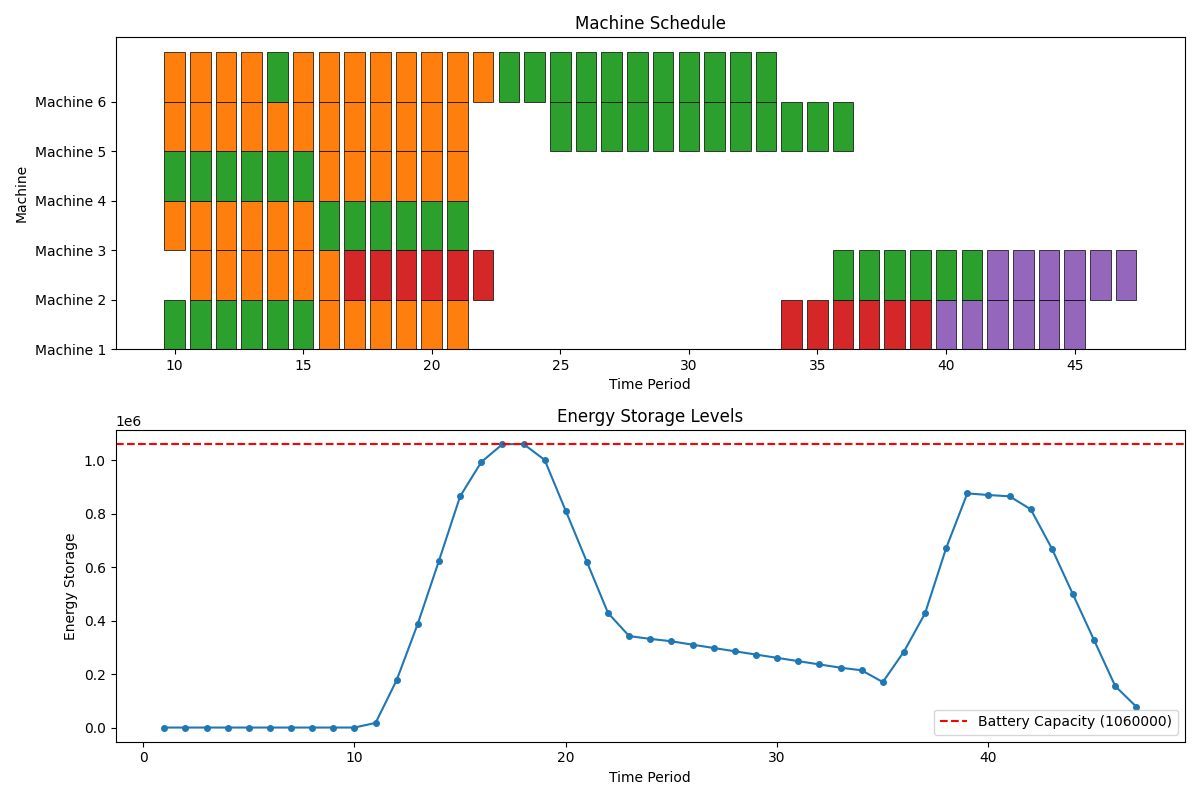
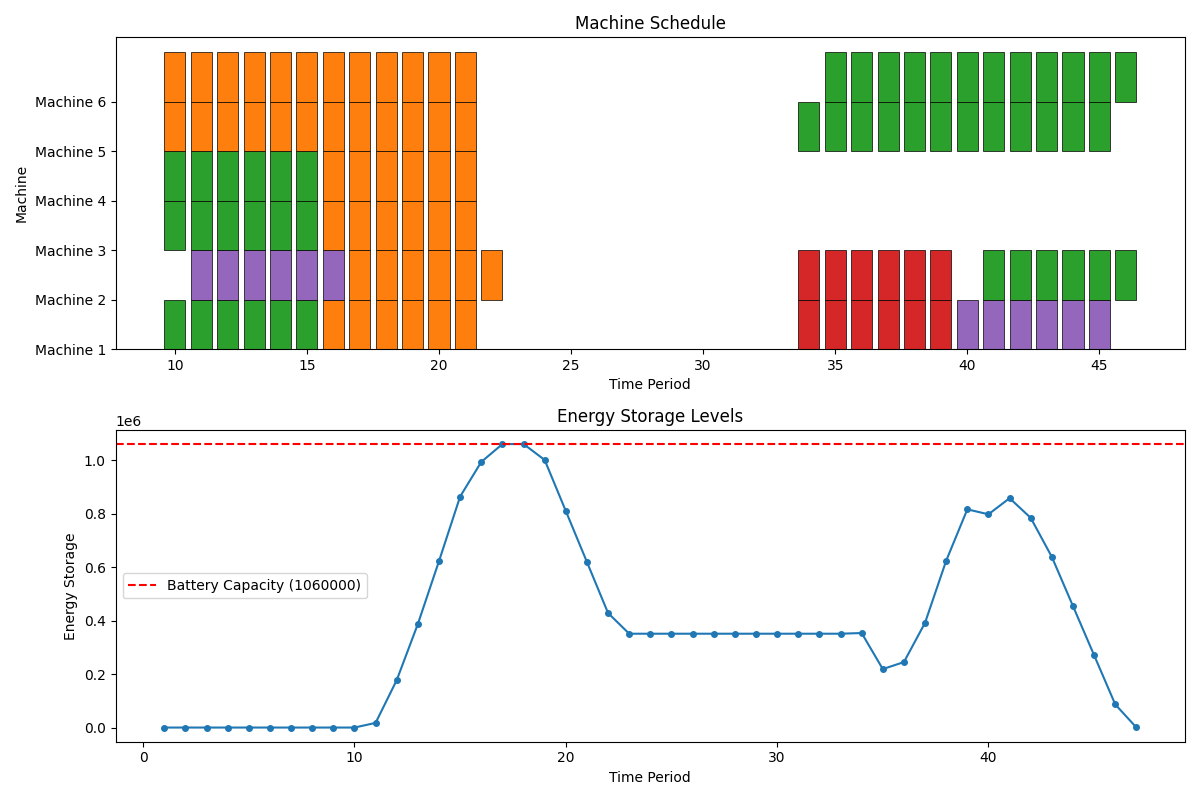
Results on 2 days

diff --git a/scheduling_problem/combine_data.py b/scheduling_problem/combine_data.py
@@ -88,7 +88,7 @@ def generate_data(data, number_of_days):
     print("--------------------------------------\n")
 
 
-def get_data(number_of_days = 1, day = pd.Timestamp("2018-02-19")):
+def get_data(number_of_days = 2, day = pd.Timestamp("2018-02-19")):
     
     end_date = day+pd.to_timedelta(number_of_days-1, unit='D')
     

diff --git a/scheduling_problem/main.py b/scheduling_problem/main.py
@@ -3,7 +3,7 @@ import run_models as run_models
 
 MODEL_1_POLICIES = [ '_1_scip']
 MODEL_3_POLICIES = [ '_3_local_search']
-MODEL_4_1_POLICIES = { '_4_1_scip': (0, 0)}
+MODEL_4_1_POLICIES = { '_4_1_enhanced': (0, 0)}
 MODEL_4_3_POLICIES = { '_4_3_scip': (0, 0)}
 
 days = 2

diff --git a/scheduling_problem/_4_1_scip.py b/scheduling_problem/_4_1_scip.py
@@ -304,4 +304,4 @@ def solve(M, N, data = combine_data.get_data()):
     print_solution(M,N,data,"4_1_scip")
 
 if __name__ == "__main__":
-    solve(2491,141)
+    solve(2983,212)

diff --git a/scheduling_problem/_4_3_scip.py b/scheduling_problem/_4_3_scip.py
@@ -291,4 +291,4 @@ def solve(M, N, data=get_data(), max_time = -1):
 
 
 if __name__ == "__main__":
-    solve(1393, 0)
+    solve(1740, 34)
